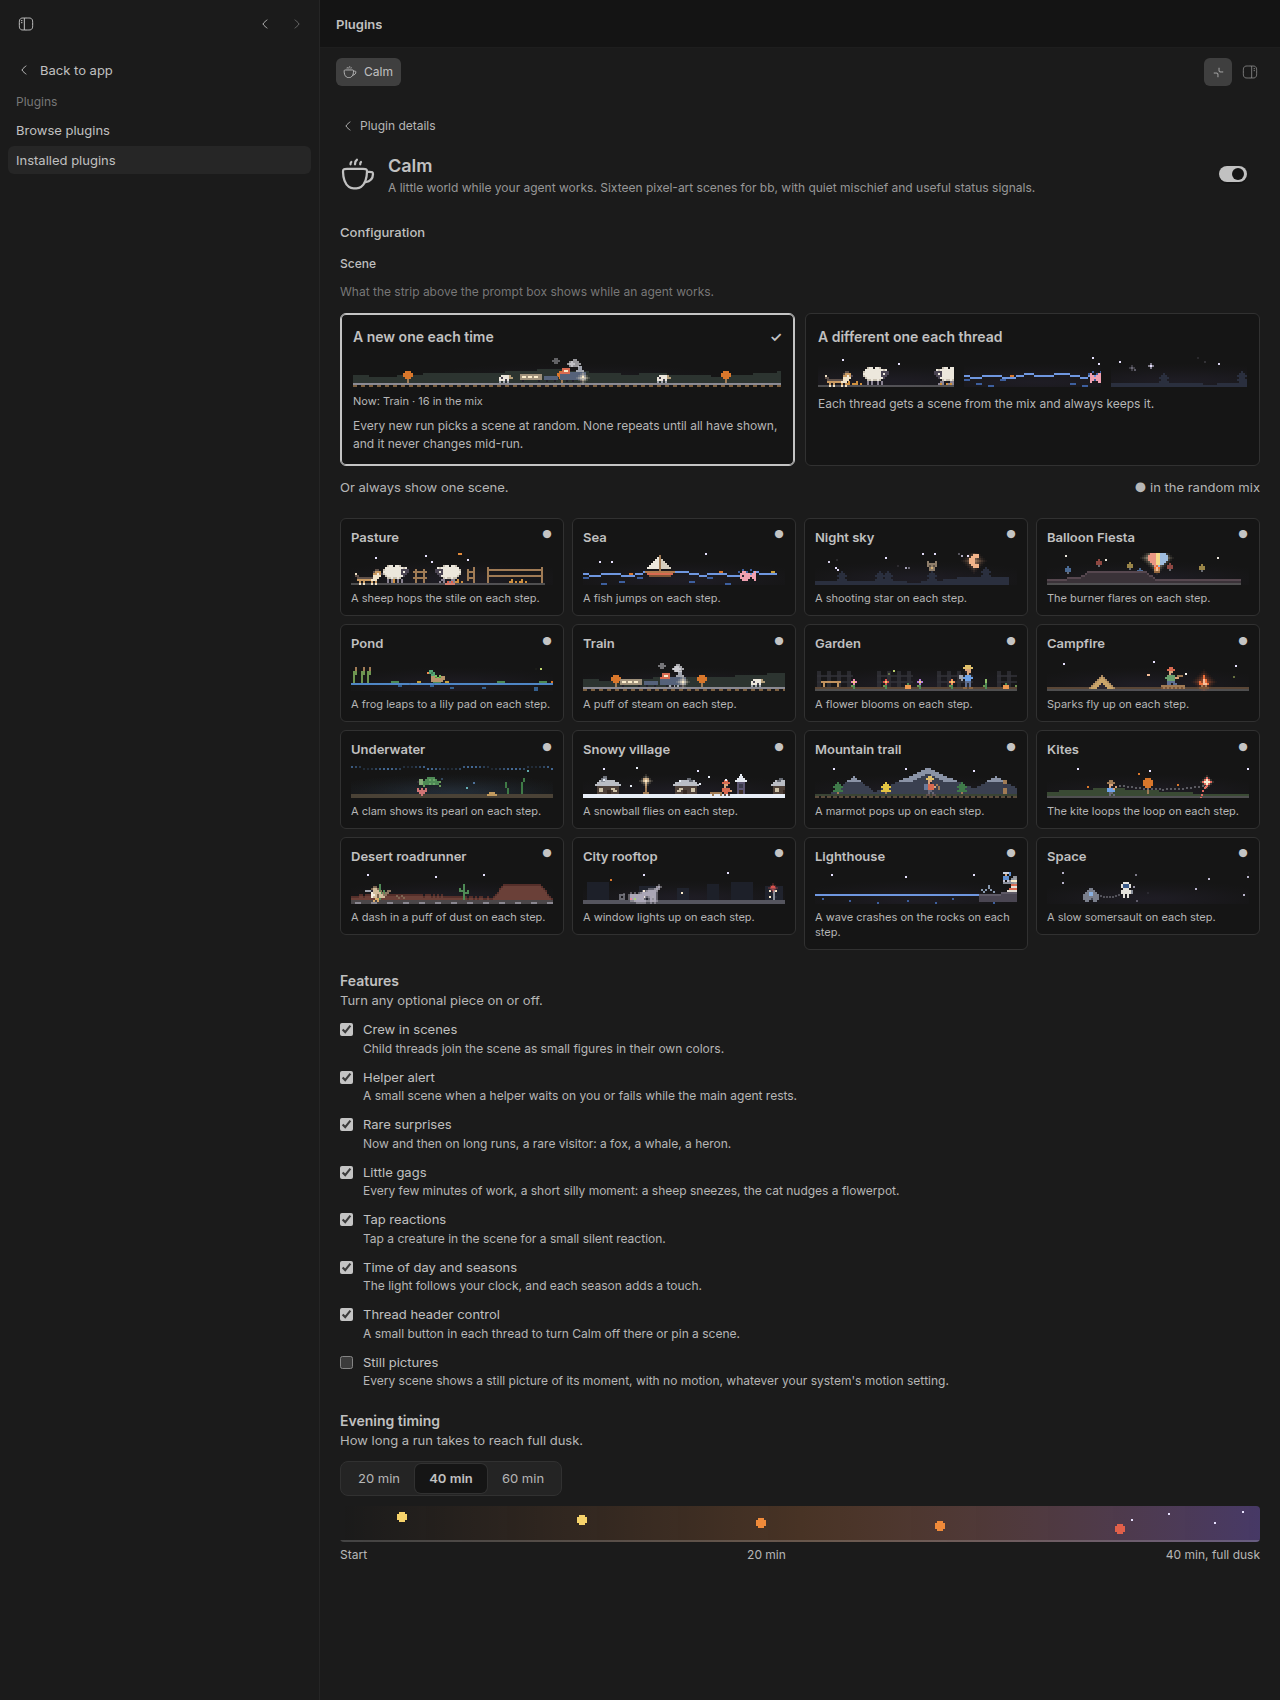
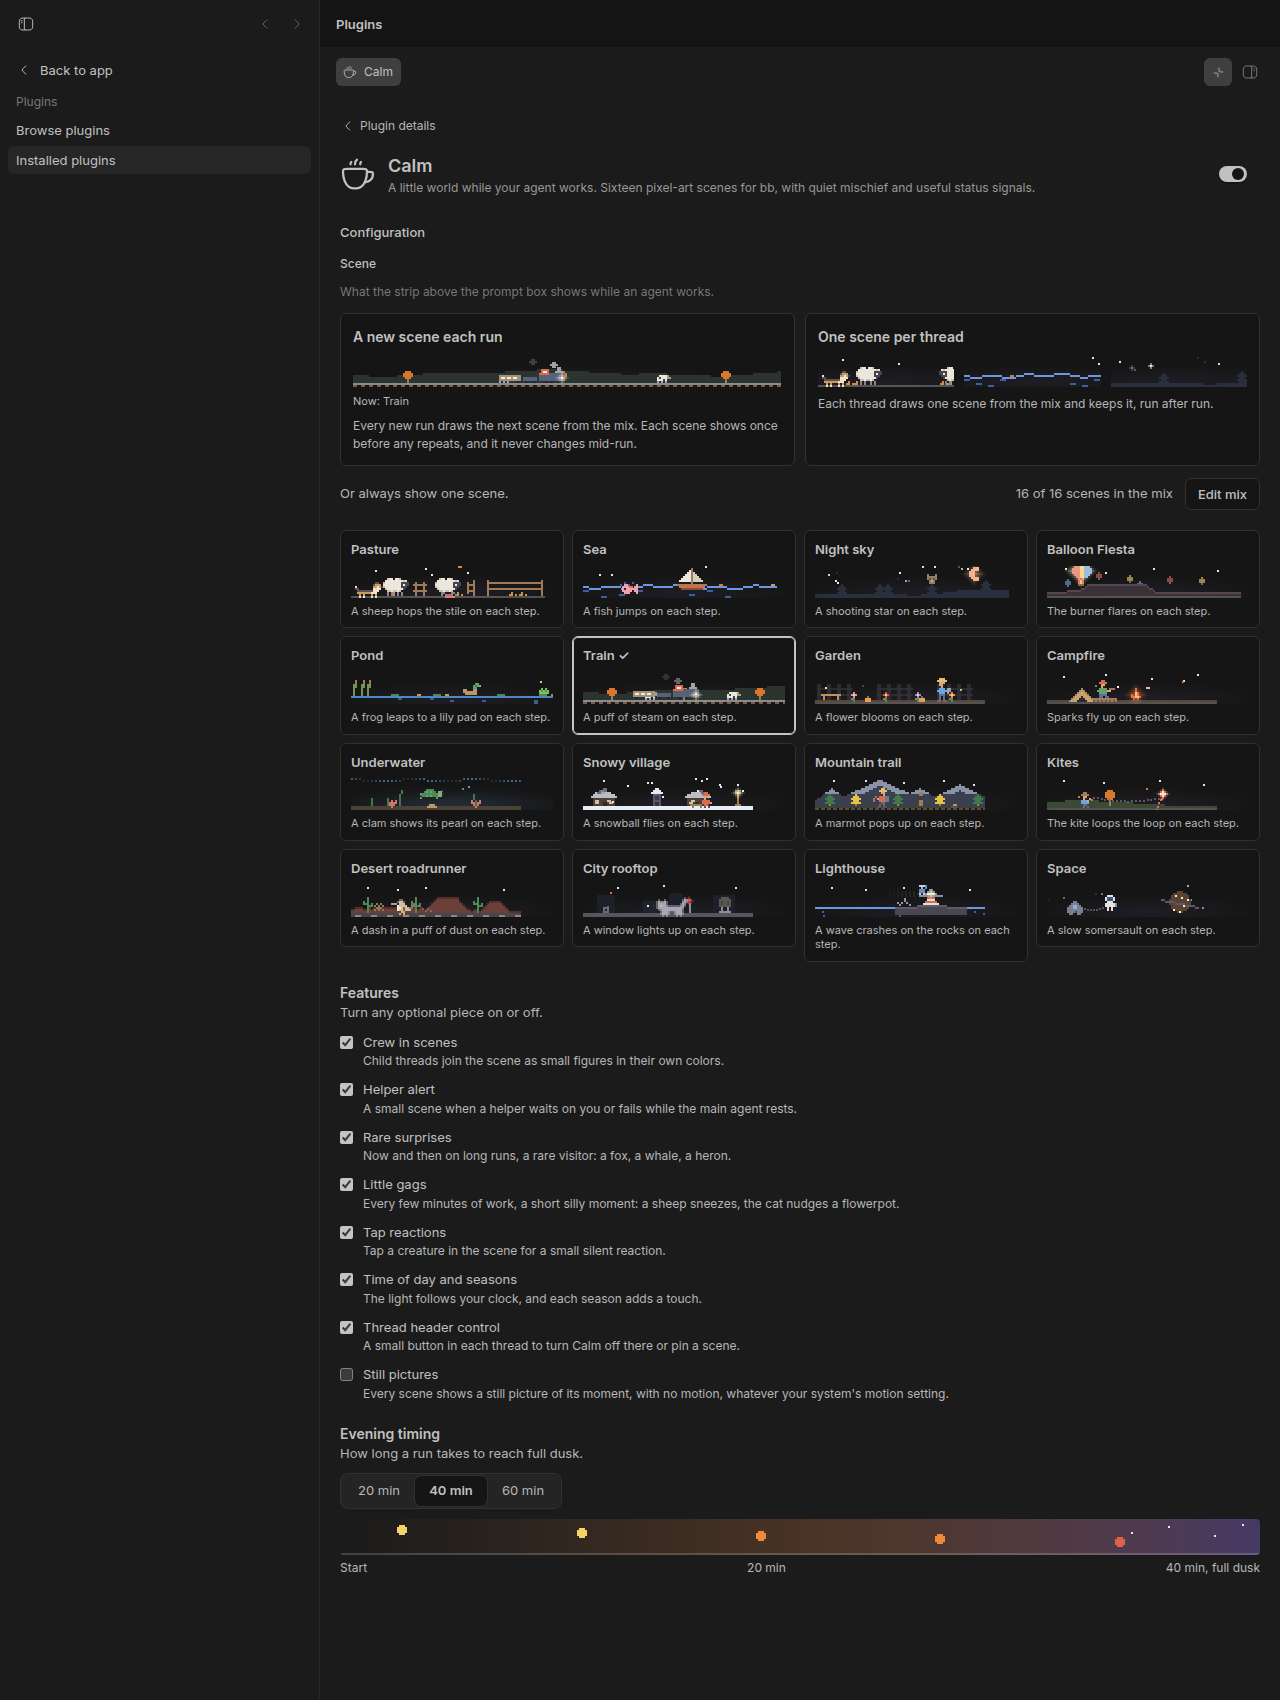
Calm final settings: use one clear Edit mix mode

diff --git a/src/settings-section.tsx b/src/settings-section.tsx
@@ -134,29 +134,23 @@ function CyclePreview({ reduced, excluded }: { reduced: boolean; excluded: reado
   );
 }
 
-/** One scene in the grid: pick it, or leave it out of the random mix. */
-function SceneTile({ scene, chosen, inMix, canLeave, onPick, onMix }: {
-  scene: Scene; chosen: boolean; inMix: boolean; canLeave: boolean; onPick: () => void; onMix: () => void;
+/** One card action at a time: pick a fixed scene, or edit the mix. */
+function SceneTile({ scene, chosen, inMix, editing, onPick, onMix }: {
+  scene: Scene; chosen: boolean; inMix: boolean; editing: boolean; onPick: () => void; onMix: () => void;
 }) {
   const [hover, setHover] = useState(false);
+  const contents = <>
+    <span className="calm-scene-name">
+      <span>{scene.name}{chosen && !editing && <span className="calm-tile-check" aria-hidden="true"> ✓</span>}</span>
+      {editing ? <input type="checkbox" checked={inMix} aria-label={`${scene.name} in the mix`} onChange={onMix} /> : !inMix && <span className="calm-mix-tag">Not in the mix</span>}
+    </span>
+    <ScenePreview scene={scene} live={hover || chosen} />
+    <span className="calm-scene-caption">{CAPTIONS[scene.id] ?? ""}</span>
+  </>;
   return (
-    <div className={`calm-scene${chosen ? " calm-scene-chosen" : ""}`} onPointerEnter={() => setHover(true)} onPointerLeave={() => setHover(false)}>
-      <button type="button" className="calm-scene-pick" aria-pressed={chosen} onClick={onPick} onFocus={() => setHover(true)} onBlur={() => setHover(false)}>
-        <span className="calm-scene-name">{scene.name}{chosen && <span className="calm-tile-check" aria-hidden="true"> ✓</span>}</span>
-        <ScenePreview scene={scene} live={hover || chosen} />
-        <span className="calm-scene-caption">{CAPTIONS[scene.id] ?? ""}</span>
-      </button>
-      <label className="calm-mix">
-        <input
-          type="checkbox"
-          checked={inMix}
-          aria-label={`${scene.name} in the mix`}
-          title={inMix && !canLeave ? "Keep at least one scene in the mix." : undefined}
-          disabled={inMix && !canLeave}
-          onChange={onMix}
-        />
-        <span>In the mix</span>
-      </label>
+    <div className={`calm-scene${chosen ? " calm-scene-chosen" : ""}${!inMix ? " calm-scene-excluded" : ""}`} onPointerEnter={() => setHover(true)} onPointerLeave={() => setHover(false)}>
+      {editing ? <label className="calm-scene-pick" onFocus={() => setHover(true)} onBlur={() => setHover(false)}>{contents}</label> :
+        <button type="button" className="calm-scene-pick" aria-pressed={chosen} onClick={onPick} onFocus={() => setHover(true)} onBlur={() => setHover(false)}>{contents}</button>}
     </div>
   );
 }
@@ -229,6 +223,8 @@ export function CalmSettings() {
   const reduced = useReducedMotion(prefs.features.still);
   const mutedRef = useRef<HTMLDivElement>(null);
   const [error, setError] = useState("");
+  const [editing, setEditing] = useState(false);
+  const editRef = useRef<HTMLButtonElement>(null);
   useEffect(() => {
     view.theme = theme;
     view.reduced = reduced;
@@ -259,7 +255,7 @@ export function CalmSettings() {
   );
 
   return (
-    <div className="calm-settings" ref={mutedRef}>
+    <div className="calm-settings" ref={mutedRef} onKeyDown={(e) => { if (editing && e.key === "Escape") { e.preventDefault(); e.stopPropagation(); setEditing(false); editRef.current?.focus(); } }}>
       <div className="calm-tiles" role="group" aria-label="Scene">
         {tile(
           "each-run",
@@ -275,19 +271,22 @@ export function CalmSettings() {
         )}
       </div>
       <div className="calm-heading-row">
-        <span className="calm-sub">Or always show one scene.</span>
-        <span className="calm-sub">{mix.length} of {SCENES.length} scenes in the mix</span>
+        <span className="calm-sub">{editing ? "Tap a scene to keep it in the mix or leave it out." : "Or always show one scene."}</span>
+        <span className="calm-mix-actions">
+          <span className="calm-sub" aria-live="polite">{mix.length} of {SCENES.length} scenes in the mix</span>
+          <button ref={editRef} type="button" className="calm-edit-mix" aria-pressed={editing} onClick={() => setEditing((e) => !e)}>{editing ? "Done" : "Edit mix"}</button>
+        </span>
       </div>
-      <div className="calm-grid" role="group" aria-label="Scenes">
+      <div className="calm-grid" role="group" aria-label={editing ? "Scenes in the mix" : "Scenes"}>
         {SCENES.map((s) => (
           <SceneTile
             key={s.id}
             scene={s}
             chosen={prefs.scene === s.id}
             inMix={!prefs.excluded.includes(s.id as SceneId)}
-            canLeave={mix.length > 1}
+            editing={editing}
             onPick={() => choose({ scene: s.id as SceneChoice })}
-            onMix={() => choose({ excluded: prefs.excluded.includes(s.id as SceneId) ? prefs.excluded.filter((x) => x !== s.id) : [...prefs.excluded, s.id as SceneId] })}
+            onMix={() => { if (mix.length === 1 && !prefs.excluded.includes(s.id as SceneId)) { setError("Keep at least one scene in the mix."); return; } choose({ excluded: prefs.excluded.includes(s.id as SceneId) ? prefs.excluded.filter((x) => x !== s.id) : [...prefs.excluded, s.id as SceneId] }); }}
           />
         ))}
       </div>

diff --git a/src/settings-section.css b/src/settings-section.css
@@ -92,19 +92,26 @@
 .calm-head-dim { color: var(--muted-foreground); }
 .calm-head-error { margin: 0; font-size: 12px; color: var(--destructive, #d33); }
 /* The scene grid: two columns in bb's settings pane, four on a wide page. */
-.calm-heading-row { display: flex; justify-content: space-between; gap: 8px; margin-top: -8px; }
+.calm-heading-row { display: flex; justify-content: space-between; gap: 8px; margin-top: -8px; flex-wrap: wrap; align-items: center; }
 .calm-grid { display: grid; grid-template-columns: 1fr 1fr; gap: 8px; }
 @container (min-width: 760px) { .calm-grid { grid-template-columns: repeat(4, 1fr); } }
 .calm-scene { position: relative; min-width: 0; }
 .calm-scene-pick { display: flex; flex-direction: column; gap: 6px; width: 100%; min-width: 0; padding: 9px 10px; border: 1px solid var(--border); border-radius: 6px; background: var(--canvas); color: var(--foreground); text-align: left; cursor: pointer; }
 .calm-scene-pick:hover { background: var(--surface-recessed); }
-.calm-scene-pick[aria-pressed="true"] { border-color: var(--primary); box-shadow: inset 0 0 0 1px var(--primary); }
-.calm-scene-pick:focus-visible, .calm-mix input:focus-visible { outline: 2px solid var(--ring); outline-offset: 2px; }
-.calm-scene-name { font-weight: 600; font-size: 13px; }
+.calm-scene-chosen .calm-scene-pick { border-color: var(--primary); box-shadow: inset 0 0 0 1px var(--primary); }
+.calm-scene-pick:focus-visible, .calm-scene-pick:has(input:focus-visible) { outline: 2px solid var(--ring); outline-offset: 2px; }
+.calm-scene-name { display: flex; align-items: center; justify-content: space-between; gap: 6px; font-weight: 600; font-size: 13px; }
 .calm-scene-caption { font-size: 11px; color: var(--muted-foreground); line-height: 1.35; }
-.calm-mix { display: flex; align-items: center; gap: 6px; min-height: 32px; padding: 4px 10px; font-size: 12px; color: var(--muted-foreground); cursor: pointer; }
-.calm-mix input { accent-color: var(--primary); }
-.calm-mix:has(input:disabled) { cursor: default; }
+.calm-mix-actions { display: flex; align-items: center; justify-content: flex-end; gap: 12px; margin-left: auto; }
+.calm-edit-mix { display: inline-flex; align-items: center; min-height: 32px; padding: 0 12px; border: 1px solid var(--border); border-radius: 6px; background: var(--canvas); color: var(--foreground); font-size: 13px; font-weight: 500; line-height: 1; cursor: pointer; }
+.calm-edit-mix:hover { background: var(--surface-recessed); }
+.calm-edit-mix[aria-pressed="true"] { border-color: var(--primary); box-shadow: inset 0 0 0 1px var(--primary); font-weight: 600; }
+@container (max-width: 439px) { .calm-edit-mix { min-height: 44px; } }
+.calm-edit-mix:focus-visible { outline: 2px solid var(--ring); outline-offset: 2px; }
+.calm-scene-name input { accent-color: var(--primary); flex: none; }
+.calm-mix-tag { font-weight: 400; font-size: 11px; color: var(--muted-foreground); }
+.calm-scene-excluded .calm-preview { opacity: .45; }
+.calm-scene-excluded .calm-scene-name { color: var(--muted-foreground); }
 .calm-cycle-now { font-size: 11px; color: var(--muted-foreground); }
 /* The strip takes keyboard focus to show its details; show where focus is. */
 .calm-strip:focus { outline: none; }

diff --git a/test/render.test.tsx b/test/render.test.tsx
@@ -78,6 +78,44 @@ describe("the settings section", () => {
   });
 });
 
+describe("editing the scene mix", () => {
+  const section = app.settingsSections[0]!;
+
+  it("separates mix editing from scene picking and exits with Escape from Done", async () => {
+    const saves: unknown[] = [];
+    const slot = renderSlot(section, {} as never, { rpc: rpcFor({ saves }) as never });
+    await flush();
+    expect(slot.queryByRole("checkbox", { name: "Sea in the mix" })).toBeNull();
+    fireEvent.click(slot.getByRole("button", { name: "Edit mix" }));
+    fireEvent.click(slot.getByRole("checkbox", { name: "Sea in the mix" }));
+    await flush();
+    expect(saves).toEqual([{ excluded: ["sea"] }]);
+    expect(slot.getByText("15 of 16 scenes in the mix")).toBeTruthy();
+    const done = slot.getByRole("button", { name: "Done" });
+    fireEvent.keyDown(done, { key: "Escape" });
+    expect(slot.queryByRole("checkbox", { name: "Sea in the mix" })).toBeNull();
+    expect(document.activeElement).toBe(slot.getByRole("button", { name: "Edit mix" }));
+    expect(slot.getByText("Not in the mix")).toBeTruthy();
+    slot.lifecycle.unmount();
+  });
+
+  it("keeps the last scene and explains why without disabling its control", async () => {
+    const saves: unknown[] = [];
+    const prefs = { ...DEFAULT_PREFS, excluded: SCENES.filter((s) => s.id !== "pasture").map((s) => s.id) } as Prefs;
+    const slot = renderSlot(section, {} as never, { rpc: rpcFor({ prefs, saves }) as never });
+    await flush();
+    fireEvent.click(slot.getByRole("button", { name: "Edit mix" }));
+    const last = slot.getByRole("checkbox", { name: "Pasture in the mix" }) as HTMLInputElement;
+    expect(last.disabled).toBe(false);
+    fireEvent.click(last);
+    await flush();
+    expect(last.checked).toBe(true);
+    expect(saves).toEqual([]);
+    expect(slot.getByRole("status").textContent).toBe("Keep at least one scene in the mix.");
+    slot.lifecycle.unmount();
+  });
+});
+
 describe("the strip above the prompt box", () => {
   const banner = app.composerCustomizations[0]!.banners![0]!;
   const strip = (mood: Mood, isRunning: boolean) => renderSlot(banner as never, {} as never, {

diff --git a/README.md b/README.md
@@ -17,7 +17,7 @@ It has a job, too. An amber light means your agent needs you. A little rain clou
 Requires bb 0.45 or later. Runs inside your bb, with no external service or account.
 
 ```sh
-bb plugin install git:https://github.com/davideiffert/bb-plugin-calm@^1.1.0
+bb plugin install git:https://github.com/davideiffert/bb-plugin-calm@^1.1.1
 ```
 
 Open a thread and send a message. Calm appears above the prompt box while the agent works.
